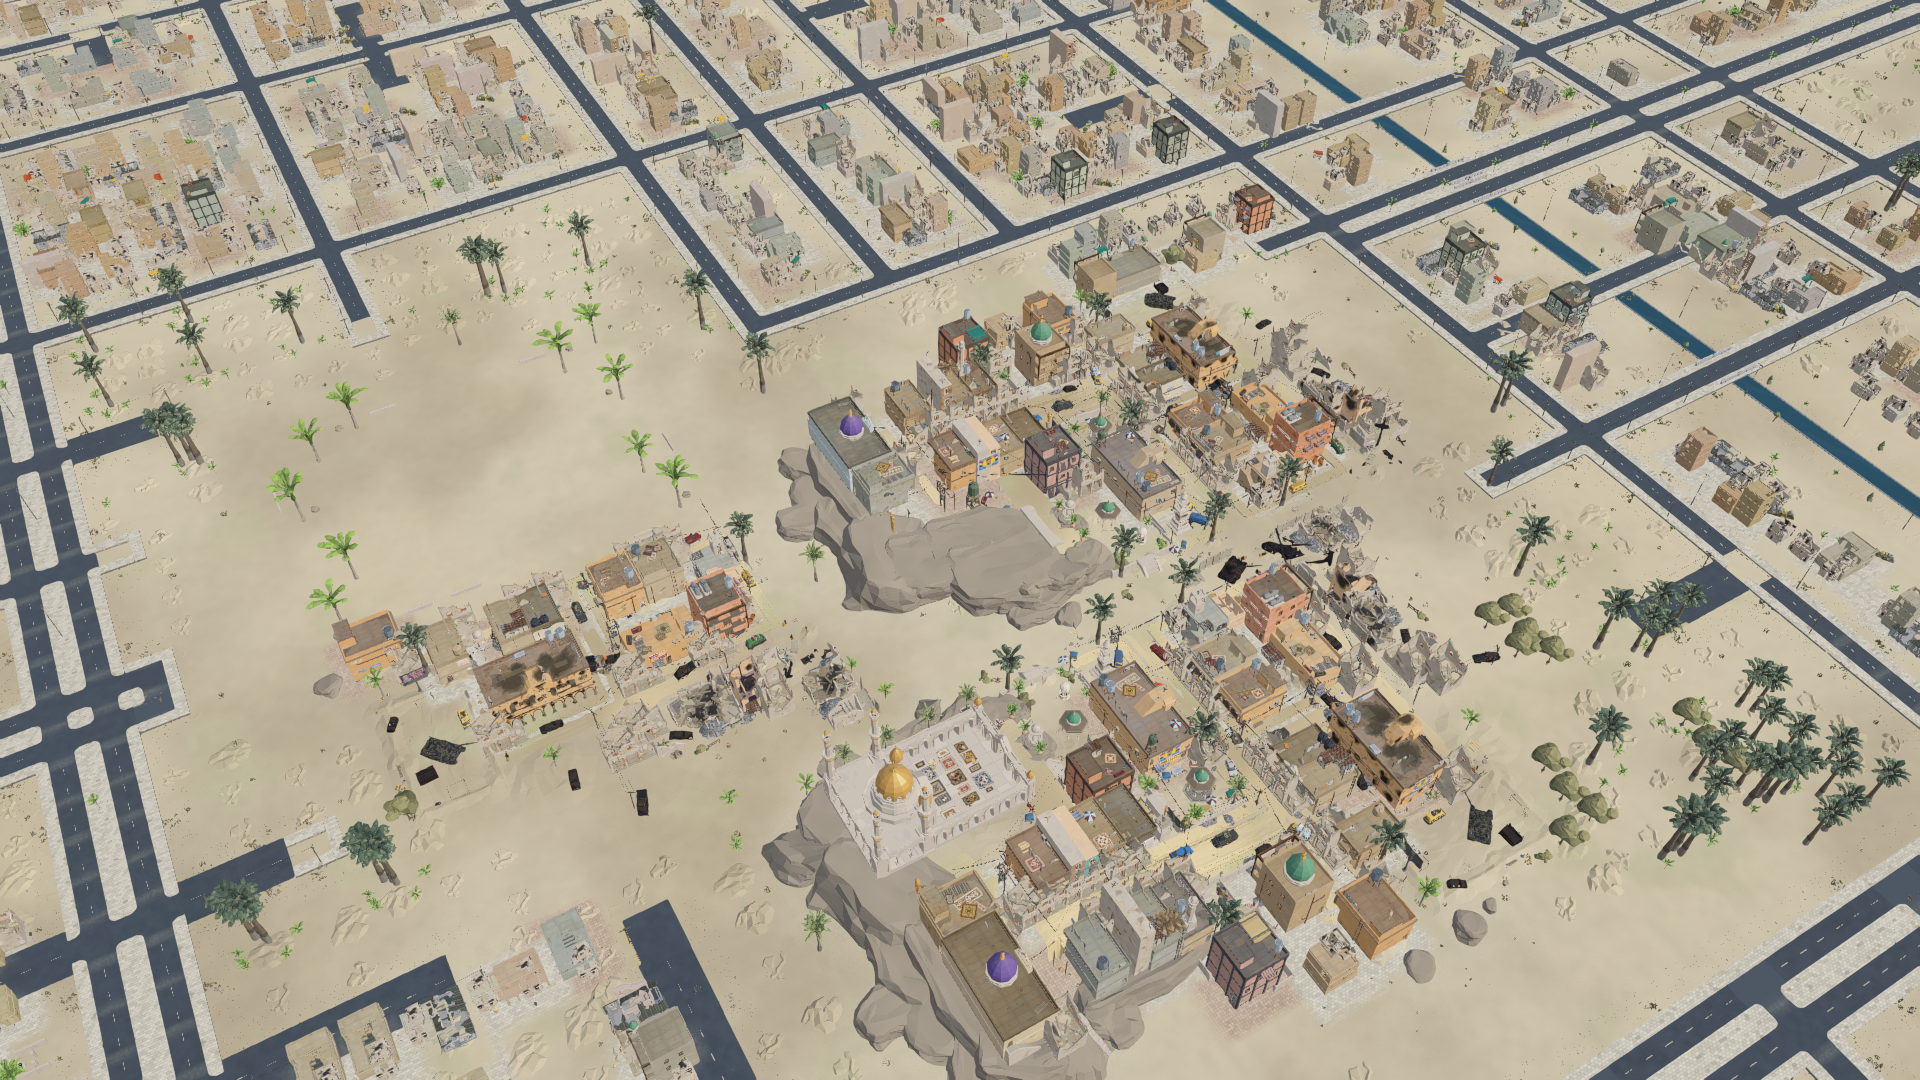
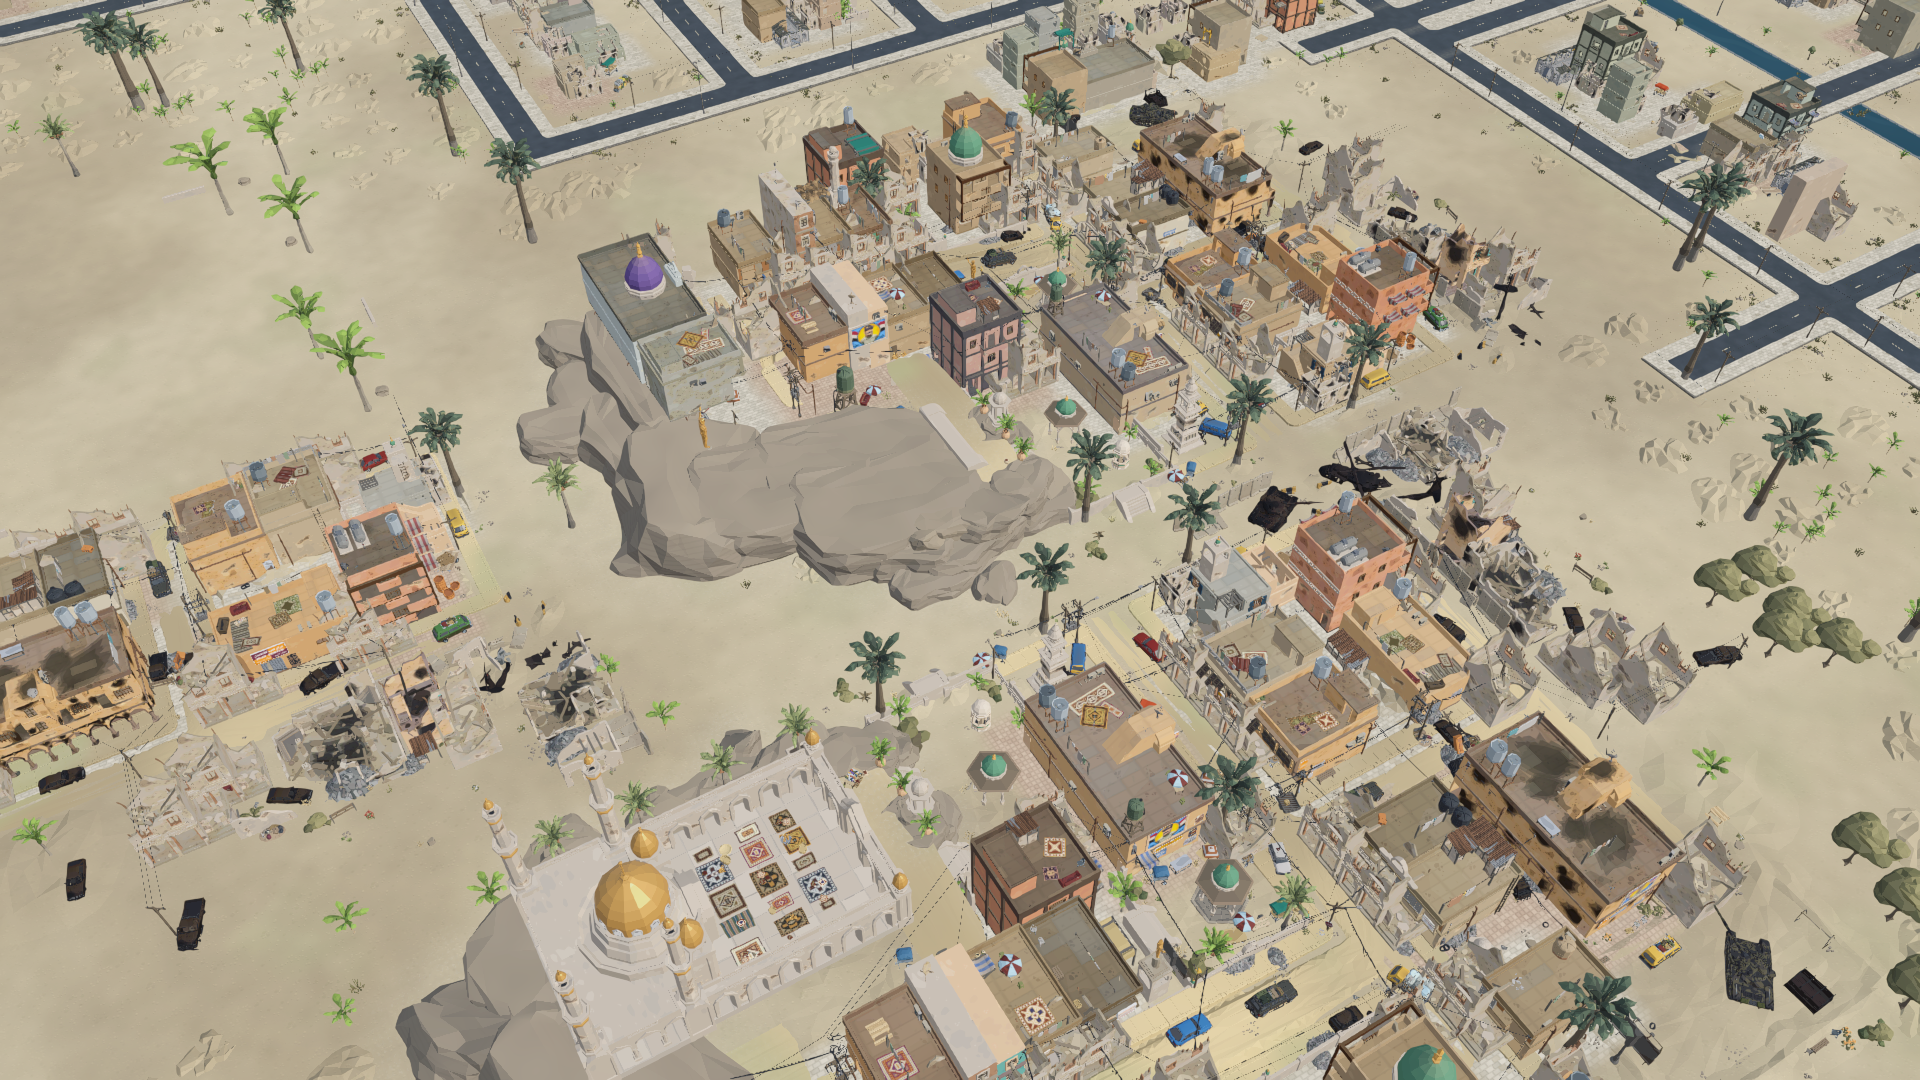
Frame S001/S025 in-match cards on the enemy base alone; centre CC plate on height-weighted building mass and frame tighter

diff --git a/Assets/Game/Scripts/Editor/SkirmishLibrary/SkirmishLibraryPlayCapture.cs b/Assets/Game/Scripts/Editor/SkirmishLibrary/SkirmishLibraryPlayCapture.cs
@@ -386,7 +386,9 @@ namespace Game.Editor
             var bounds = new Bounds(enemy, Vector3.one * 30f);
             foreach (Vector3 p in enemyCluster) bounds.Encapsulate(p);
             float separation = new Vector2(enemy.x - home.x, enemy.z - home.z).magnitude;
-            bool both = separation < 380f;
+            // S001 and S025 start close to the enemy; framing both bases made the enemy base tiny, so frame the enemy base alone.
+            bool enemyOnly = id == "S001" || id == "S025";
+            bool both = !enemyOnly && separation < 380f;
             if (both)
                 foreach (Vector3 p in playerCluster) bounds.Encapsulate(p);
 
@@ -403,8 +405,8 @@ namespace Game.Editor
             Vector3 size = bounds.size;
             float radius = Mathf.Max(size.x, size.z) * 0.5f + 25f;
             float fit = radius / Mathf.Tan(fov * 0.5f * Mathf.Deg2Rad) / Mathf.Min(1f, aspect * 0.75f);
-            float distance = Mathf.Clamp(fit * 0.62f, 120f, 420f);
-            Vector3 look = both ? Vector3.Lerp(bounds.center, enemy, 0.35f) : enemy;
+            float distance = Mathf.Clamp(fit * (enemyOnly ? 0.5f : 0.62f), enemyOnly ? 90f : 120f, 420f);
+            Vector3 look = both ? Vector3.Lerp(bounds.center, enemy, 0.35f) : enemyOnly ? bounds.center : enemy;
             look.y = Mathf.Min(enemy.y, home.y);
             Vector3 dir = (-back * Mathf.Cos(pitch * Mathf.Deg2Rad) + Vector3.down * Mathf.Sin(pitch * Mathf.Deg2Rad)).normalized;
             Vector3 position = look - dir * distance;

diff --git a/Assets/Game/Scripts/Editor/SkirmishLibrary/SkirmishLibraryPreviewCapture.cs b/Assets/Game/Scripts/Editor/SkirmishLibrary/SkirmishLibraryPreviewCapture.cs
@@ -1120,10 +1120,23 @@ namespace Game.Editor
                 return shot.Camera;
             }
 
-            var center = new Vector3((best.x + 0.5f) * cell, shot.FocusHint.y, (best.y + 0.5f) * cell);
+            // Pull the centre toward the building mass of the 3x3 block (height-weighted) so open sand
+            // at the block edge drops out of frame, and frame slightly tighter.
+            Vector2 weighted = Vector2.zero;
+            float weight = 0f;
+            for (int dx = -1; dx <= 1; dx++)
+            for (int dz = -1; dz <= 1; dz++)
+            {
+                var k = new Vector2Int(best.x + dx, best.y + dz);
+                if (!heights.TryGetValue(k, out float h)) continue;
+                weighted += new Vector2((k.x + 0.5f) * cell, (k.y + 0.5f) * cell) * h;
+                weight += h;
+            }
+            Vector2 c2 = weight > 0f ? weighted / weight : new Vector2((best.x + 0.5f) * cell, (best.y + 0.5f) * cell);
+            var center = new Vector3(c2.x, shot.FocusHint.y, c2.y);
             const float fov = 40f;
             const float pitch = 48f;
-            float distance = 125f / Mathf.Tan(fov * 0.5f * Mathf.Deg2Rad);
+            float distance = 72f / Mathf.Tan(fov * 0.5f * Mathf.Deg2Rad);
             Vector3 dir = Quaternion.Euler(pitch, 30f, 0f) * Vector3.forward;
             log = "focus=dense sectors=" + counts.Count + " center=" + Format(center) + " score=" +
                   bestScore.ToString("0", CultureInfo.InvariantCulture);
